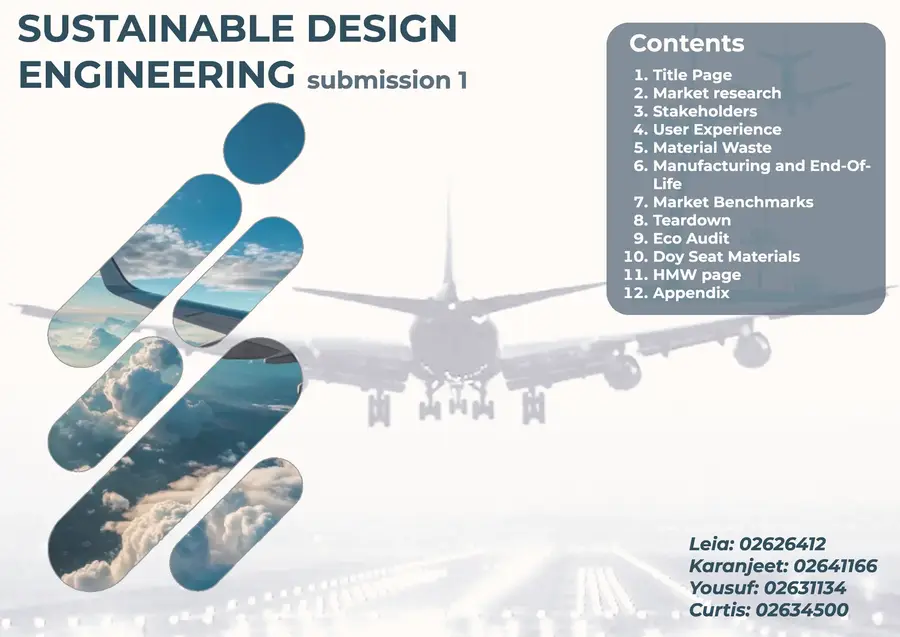
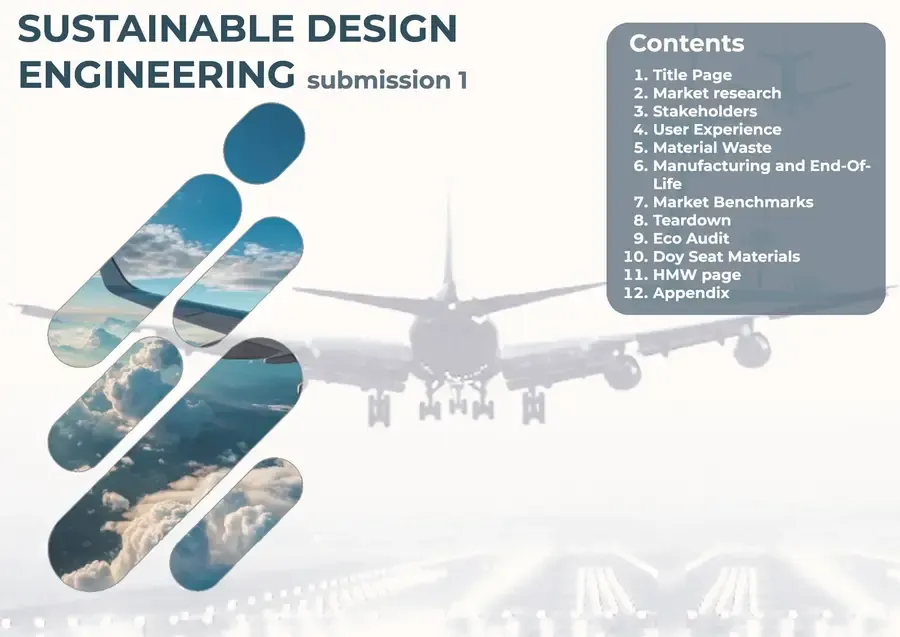
Restore original wording, 600px tile images, remove student numbers from SDE cover

Changed region(s): [[0.7467, 0.8352, 1.0, 1.0]]

diff --git a/index.html b/index.html
@@ -35,7 +35,7 @@
   <link rel="preconnect" href="https://fonts.googleapis.com" />
   <link rel="preconnect" href="https://fonts.gstatic.com" crossorigin />
   <link rel="stylesheet" href="https://fonts.googleapis.com/css2?family=Manrope:wght@400;500;600;700;800&display=swap" />
-  <link rel="stylesheet" href="/site.css?v=62" />
+  <link rel="stylesheet" href="/site.css?v=64" />
 </head>
 <body>
 <header class="nav">
@@ -48,7 +48,7 @@
       <span>Yousuf Shahabuddin</span>
     </a>
     <nav class="nav-links" aria-label="Sections">
-      <a href="#work">Work</a><a href="#index">Index</a><a href="#about">About</a><a href="#contact">Contact</a>
+      <a href="#work">Work</a><a href="#index">More projects</a><a href="#about">About</a><a href="#contact">Contact</a>
     </nav>
     <div class="nav-tools">
       <button class="btn btn-tonal nav-icon theme-btn" type="button" id="themeBtn" aria-label="Switch to dark mode" title="Light or dark">
@@ -68,12 +68,11 @@
   <section class="hero" id="top">
     <div class="wrap hero-grid">
       <div class="hero-copy">
-        <p class="kicker"><span>Design engineer</span><span>Imperial College London</span><span>MEng, 2028</span></p>
+        <p class="kicker"><span>Design Engineer / Imperial College London</span></p>
         <h1>Yousuf<br>Shahabuddin</h1>
-        <p class="statement">From <em>sketch</em> to <em>simulation</em> to a working <em>prototype</em>, with a number behind every decision.</p>
-        <p class="lede">Studying <a href="https://www.imperial.ac.uk/study/courses/undergraduate/design-engineering/" target="_blank" rel="noopener">MEng Design Engineering</a> at Imperial. I take products from interviews and sketches through CAD and simulation to something you can pick up and test.</p>
+        <p class="lede"><a href="https://www.imperial.ac.uk/study/courses/undergraduate/design-engineering/" target="_blank" rel="noopener">MEng Design Engineering</a> at Imperial. I take products from interviews and sketches through CAD and simulation to a working prototype, and I like proving each decision with a number.</p>
         <div class="cta">
-          <a class="btn btn-solid" href="#work">See the work <span aria-hidden="true">→</span></a>
+          <a class="btn btn-solid" href="#work">Flagship work <span aria-hidden="true">→</span></a>
           <a class="btn btn-tonal" href="/assets/docs/CV.pdf" target="_blank" rel="noopener">CV (PDF) <span aria-hidden="true">↗</span></a>
         </div>
       </div>
@@ -120,15 +119,15 @@
   </section>
 
   <div class="marquee" aria-hidden="true">
-    <div class="marquee-track"><div class="marquee-group"><span>CAD &amp; modelling</span><span>Simulation &amp; analysis</span><span>Electronics &amp; firmware</span><span>Coding &amp; software</span><span>Design</span><span>Make</span><span>Prototyping</span></div><div class="marquee-group"><span>CAD &amp; modelling</span><span>Simulation &amp; analysis</span><span>Electronics &amp; firmware</span><span>Coding &amp; software</span><span>Design</span><span>Make</span><span>Prototyping</span></div></div>
+    <div class="marquee-track"><div class="marquee-group"><span>CAD &amp; Modelling</span><span>Simulation &amp; Analysis</span><span>Electronics &amp; Firmware</span><span>Coding &amp; Software</span><span>Design</span><span>Make</span><span>Prototyping</span></div><div class="marquee-group"><span>CAD &amp; Modelling</span><span>Simulation &amp; Analysis</span><span>Electronics &amp; Firmware</span><span>Coding &amp; Software</span><span>Design</span><span>Make</span><span>Prototyping</span></div></div>
   </div>
 
   <section class="sec" id="work">
     <div class="wrap">
       <div class="sec-head rv">
-        <p class="label">01 / Selected work</p>
+        <p class="label">Sheet 02 / Flagship work</p>
         <h2 class="h-sec">Three projects, <em>in depth</em></h2>
-        <p class="sec-note">Open any project for a summary: figures, the key numbers, what I did, and the full report.</p>
+        <p class="sec-note">Open any project for a one-page summary: figures, important figures, what I did, and the full report.</p>
       </div>
       <div class="feats" id="flags"></div>
     </div>
@@ -137,9 +136,9 @@
   <section class="sec" id="index">
     <div class="wrap">
       <div class="sec-head rv">
-        <p class="label">02 / Index</p>
-        <h2 class="h-sec">Everything <em>else</em></h2>
-        <p class="sec-note">Smaller and earlier projects. Each one opens a summary.</p>
+        <p class="label">Sheet 03 / More projects</p>
+        <h2 class="h-sec">More work</h2>
+        <p class="sec-note">Smaller and earlier projects. Each one opens a summary sheet.</p>
       </div>
       <div class="tiles" id="moreGrid"></div>
     </div>
@@ -148,18 +147,18 @@
   <section class="sec" id="about">
     <div class="wrap">
       <div class="sec-head rv">
-        <p class="label">03 / About</p>
+        <p class="label">Sheet 04 / About</p>
         <h2 class="h-sec">Off the <em>drawing board</em></h2>
       </div>
       <div class="about-grid">
         <div class="about-copy rv">
-          <p class="about-lead">I'm looking for a <em>6-month placement</em> from April to September 2027, ideally in aerospace, electrification or motorsport.</p>
+          <p class="about-lead">I'm looking for a <em>6-month industry placement</em> from April to September 2027, ideally in aerospace, electrification or motorsport.</p>
           <p>Alongside the degree I'm a mechanic on Imperial's Shell Eco-marathon team, which <a href="https://felixonline.co.uk/articles/imperial-team-2nd-shell-eco-marathon/" target="_blank" rel="noopener">placed 1st in the UK and 2nd in EMEA</a>, and I'm on a UROP research placement. I co-founded FemAI, a B2B healthtech startup, and sit on the STEM Muslims general committee.</p>
           <p>I love aircraft: the engineering, the sound, even the smell of jet fuel. One day I'd like to earn a PPL. Away from the desk I climb, shoot archery (I won a local competition) and race karts, where I've dug into lap-time data to find where the seconds go.</p>
         </div>
         <figure class="portrait rv">
           <img src="/assets/images/web/me.webp" alt="Portrait of Yousuf Shahabuddin" width="900" height="900">
-          <figcaption><span>Fig. 01</span><span>That's me!</span></figcaption>
+          <figcaption><span>Fig. 01</span><span>that's me!</span></figcaption>
         </figure>
         <dl class="facts rv">
           <dt>Course</dt><dd><a href="https://www.imperial.ac.uk/study/courses/undergraduate/design-engineering/" target="_blank" rel="noopener">MEng Design Engineering ↗</a></dd>
@@ -204,8 +203,8 @@
   <section class="sec contact" id="contact">
     <div class="wrap">
       <div class="sec-head rv">
-        <p class="label">04 / Contact</p>
-        <h2 class="h-big">Let's <em>talk</em>.</h2>
+        <p class="label">Sheet 05 / Contact</p>
+        <h2 class="h-big">Get in touch</h2>
       </div>
       <form class="form rv" id="msgForm" novalidate>
         <input type="checkbox" name="botcheck" class="hp" tabindex="-1" aria-hidden="true" autocomplete="off">
@@ -245,6 +244,6 @@
   </div>
 </dialog>
 
-<script src="/site.js?v=62"></script>
+<script src="/site.js?v=64"></script>
 </body>
 </html>

diff --git a/site.js b/site.js
@@ -156,7 +156,8 @@
 
   var others = P.filter(function (p) { return !p.flagship; });
   $("moreGrid").innerHTML = others.map(function (p, i) {
-    var img = '<img src="/assets/images/web/' + p.media[0][0] + '" alt="" loading="lazy" decoding="async">';
+    var f = p.media[0][0];
+    var img = '<img src="/assets/images/thumb/' + f + '" srcset="/assets/images/thumb/' + f + ' 600w, /assets/images/web/' + f + ' 900w" sizes="(min-width: 1700px) 300px, (min-width: 1300px) 22vw, (min-width: 980px) 30vw, (min-width: 640px) 45vw, 92vw" alt="" loading="lazy" decoding="async">';
     var fig = '<span class="fig">Fig. ' + pad(i + flags.length + 2, 2) + '</span>';
     var meta = '<div class="meta"><span>' + esc(p.disc[0]) + '</span><span>' + p.year + '</span></div>';
     return '<article class="tile rv" data-open="' + p.slug + '"><div class="tile-in">' +
@@ -166,7 +167,7 @@
       (p.live ? '<a class="play" href="' + LIVE + p.live + '" target="_blank" rel="noopener">▶ Play now</a>' : '') + '</div>' +
       '<div class="body">' + meta + '<h3><a href="#' + p.slug + '">' + esc(p.title) + '</a></h3><p>' + esc(p.hook) + '</p></div></div>' +
       '</div></article>';
-  }).join("") + '<article class="tile wip rv"><div class="wip-in"><div class="meta"><span>In progress</span></div><h3>Currently building</h3><ul><li>A wearable biosensor aimed at early disease detection.</li><li>An airline seat-selection tool that helps travellers get value for money.</li></ul></div></article>';
+  }).join("") + '<article class="tile wip rv"><div class="wip-in"><div class="meta"><span>Currently building</span></div><ul><li>A wearable biosensor aimed at early disease detection.</li><li>An airline seat-selection tool that helps travellers get value for money.</li></ul></div></article>';
 
   var dlg = $("sheet"), body = $("shBody"), current = null, originImg = null, labStop = null;
 

diff --git a/404.html b/404.html
@@ -13,7 +13,7 @@
   <link rel="preconnect" href="https://fonts.googleapis.com" />
   <link rel="preconnect" href="https://fonts.gstatic.com" crossorigin />
   <link rel="stylesheet" href="https://fonts.googleapis.com/css2?family=Manrope:wght@400;500;600;700;800&display=swap" />
-  <link rel="stylesheet" href="/site.css?v=62" />
+  <link rel="stylesheet" href="/site.css?v=64" />
   <style>
     .err { min-height: 70vh; display: flex; align-items: center; padding-block: 64px; }
     .err h1 { font-weight: 600; font-size: clamp(3rem, 10vw, 8rem); line-height: .9; letter-spacing: -.055em; margin: 16px 0 20px; }
@@ -36,7 +36,7 @@
   </header>
   <main class="err">
     <div class="wrap">
-      <p class="label">Error 404 / Page not found</p>
+      <p class="label">Error 404 / Sheet not found</p>
       <h1>Off the <em>drawing</em></h1>
       <p>This page doesn't exist, or it's been revised out. Everything that does is on the homepage.</p>
       <div class="cta">

diff --git a/site.css b/site.css
@@ -115,7 +115,7 @@ em { font-style: normal; }
 .hero h1 { font-weight: 600; font-size: clamp(3rem, 9vw, 8.4rem); line-height: .88; letter-spacing: -.055em; margin: 0 0 26px; }
 .statement { font-size: clamp(1.45rem, 2.6vw, 2.35rem); line-height: 1.12; letter-spacing: -.03em; font-weight: 500; max-width: 22ch; margin: 0 0 20px; }
 .statement em { color: var(--accent-ink); }
-.lede { font-size: 1.02rem; color: var(--ink-2); max-width: 52ch; margin: 0 0 28px; }
+.lede { font-size: clamp(1.05rem, 1.25vw, 1.3rem); color: var(--ink-2); max-width: 50ch; margin: 0 0 28px; }
 .lede a, .about-copy a { color: var(--ink); text-decoration: underline; text-decoration-color: var(--accent); text-decoration-thickness: 1.5px; text-underline-offset: 3px; }
 .lede a:hover, .about-copy a:hover { color: var(--accent-ink); }
 .cta { display: flex; flex-wrap: wrap; gap: 10px; }
